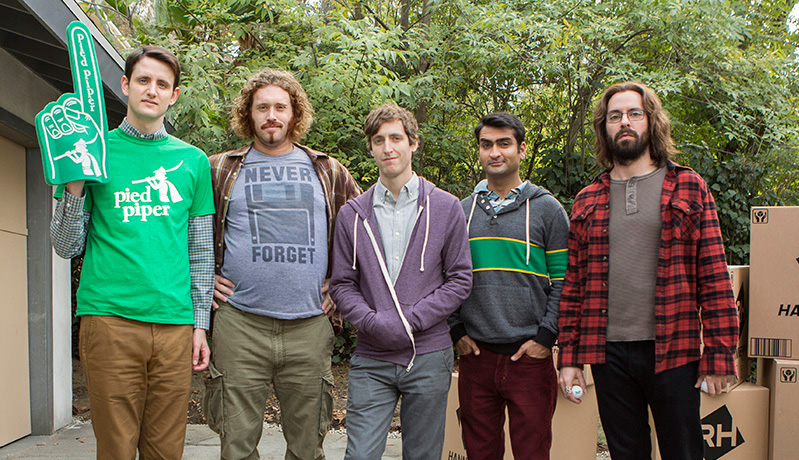
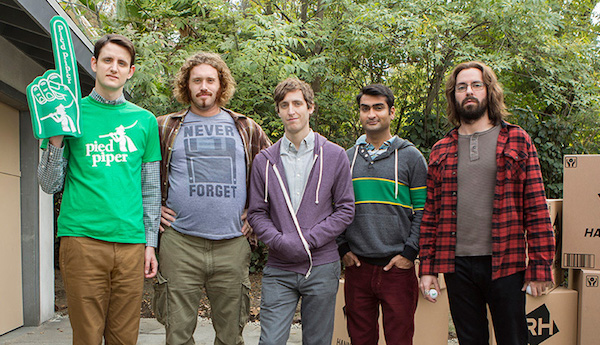
Fix/image optimisation (#151)
* resampled all images to 600x* and resolution 300

* updated text for adding imagery

diff --git a/CONTRIBUTING.md b/CONTRIBUTING.md
@@ -11,11 +11,13 @@ _Please make sure you include all necessary fields and try to stick to the forma
 
 Your PR will be reviewed carefully to see if it fits the bill, with very loose guidelines. The URL format doesn't matter so much as long as the link works and a video can be retrieved.
 
+## Important
+
 Remember that the video URLs should reference snippets or clips from of your favourite scene from the movie. We aren't hosting trailers, credits or fan videos.
 
 Also, bear in mind that that only one entry to the content will be accepted at a time. You should raise additional PR's for extra content. This allows us to validate each PR in isolation.
 
-The image that is added to support the content should be a JPEG and added to the `main/public/assets` folder. Make sure the quality of the image is decent and represents the scene from the video you are referencing.
+The image that is added to support the content should be a JPEG and added to the `main/public/assets/images` folder. Make sure the quality of the image is decent and represents the scene from the video you are referencing. I have resampled all images to be 600(w)x~350(h) with a resolution of 300ppi. This helps to keep the image sizes down.
 
 ## TV Shows
 
